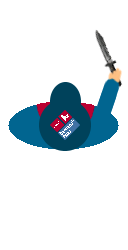
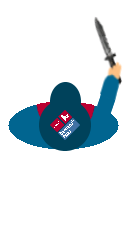
better knife animation

Changed region(s): [[0.7188, 0.056, 0.9688, 0.42]]

diff --git a/entities/player.py b/entities/player.py
@@ -83,7 +83,7 @@ class Player(object):
                             (self.keyframes_knife_attacking_counter + 1) % (3 * len(self.keyframes_knife_attacking))
                         if self.keyframes_knife_attacking_counter == 0:
                             self.world.inventory.items[self.world.inventory.current_item].activated = False
-                            player_sprite = pygame.transform.scale(player_sprite, (100, 50))
+                        player_sprite = pygame.transform.scale(player_sprite, (50, 100))
                     else:
                         player_sprite = self.keyframes_walking_holding_knife[self.keyframes_walking_animation_counter // 5]
                         self.keyframes_walking_animation_counter = \
